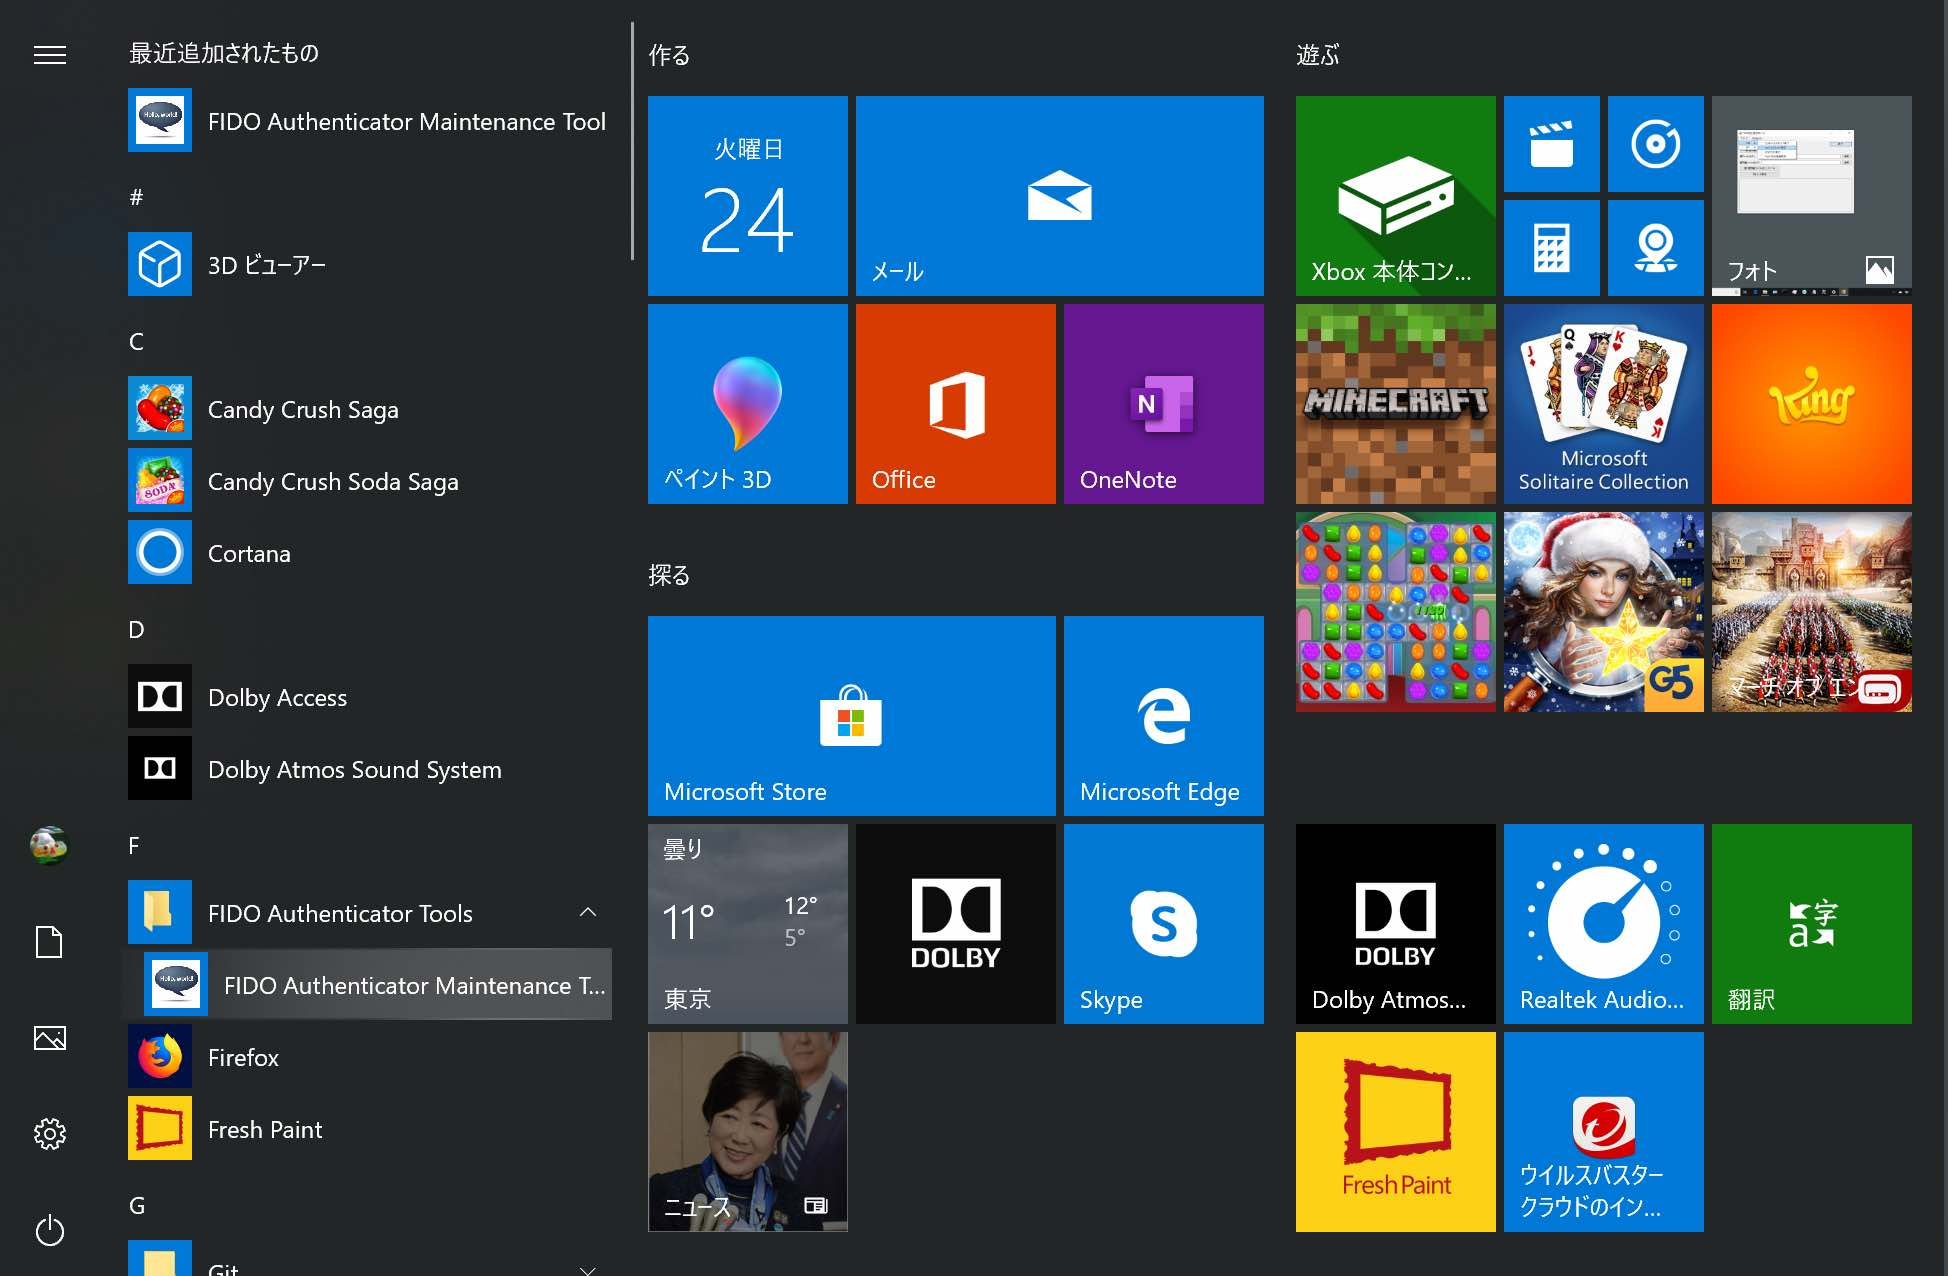
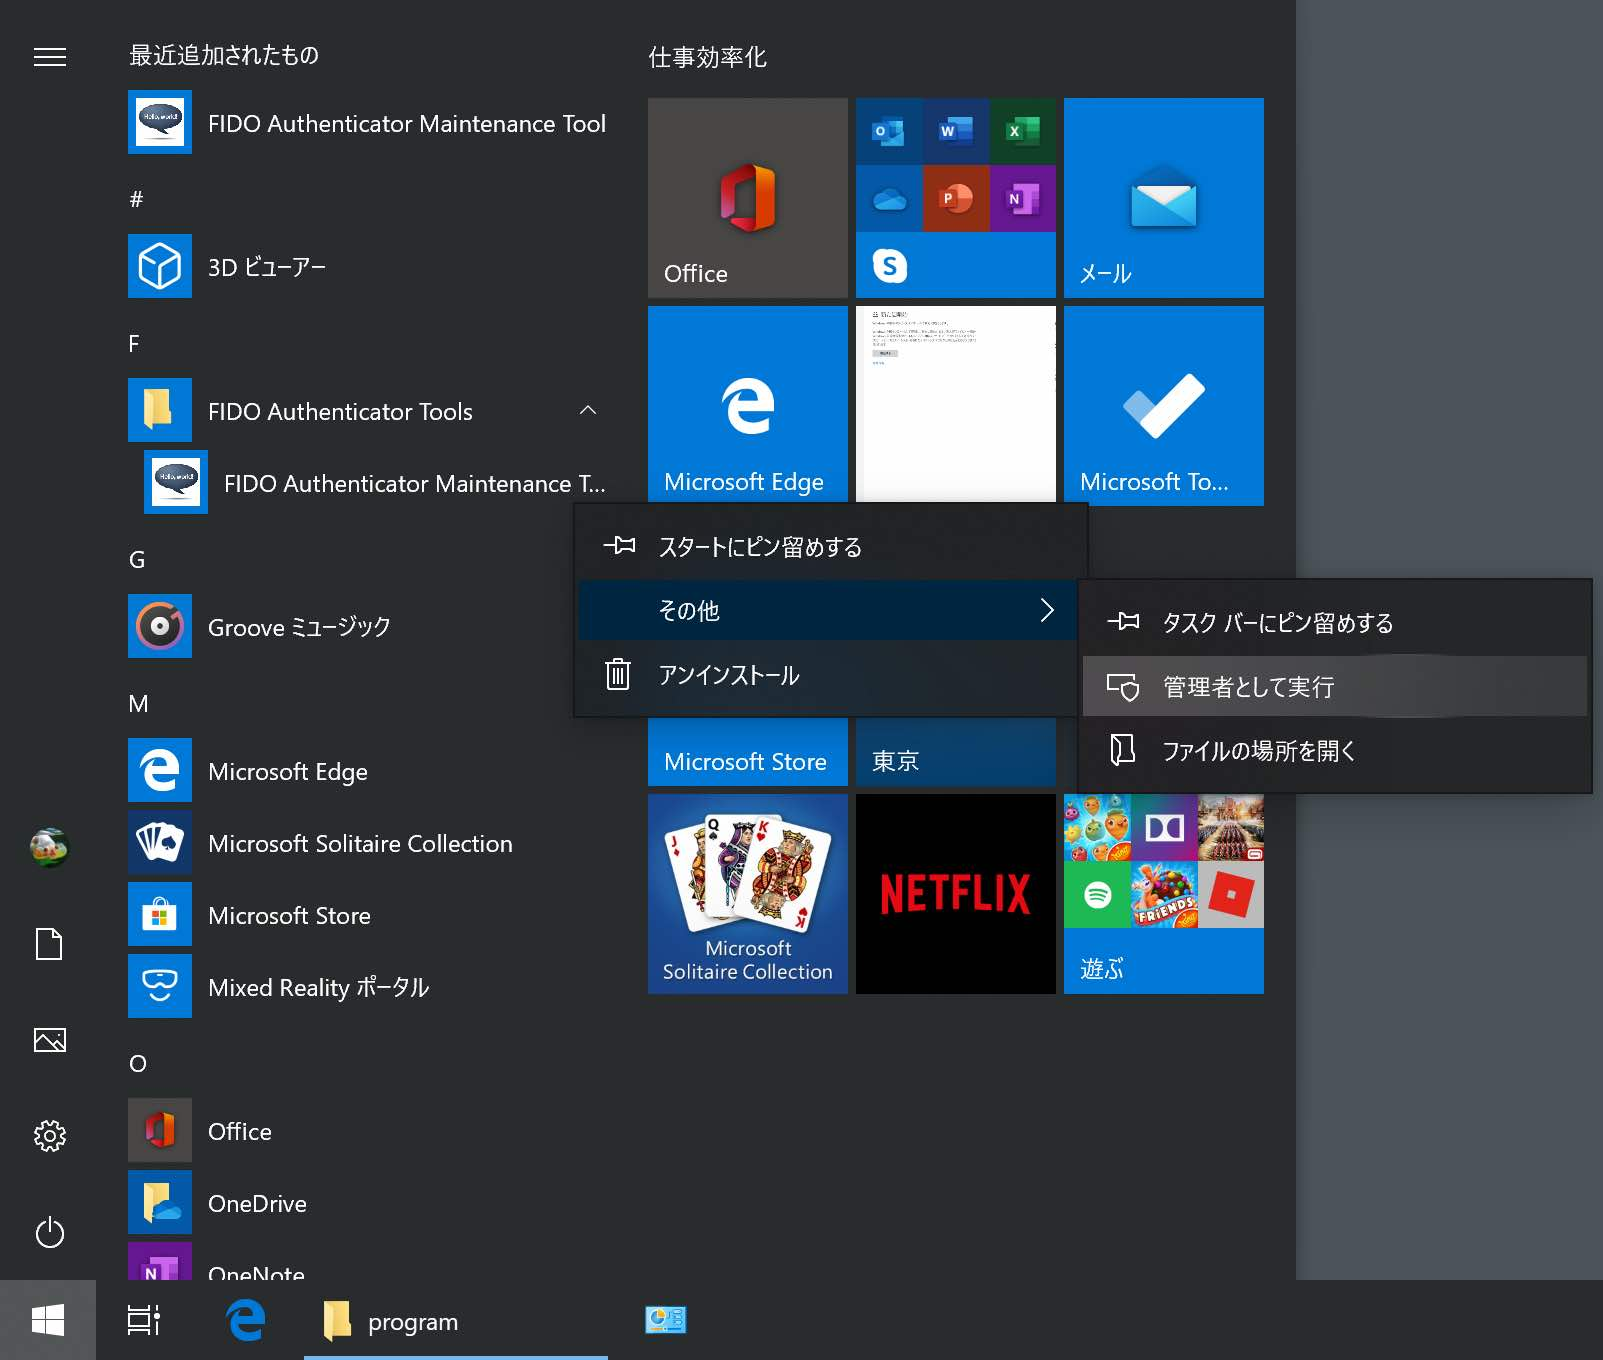
ドキュメントを更新
・管理ツール実行時は、管理者として実行する必要がある旨の注記を追加

diff --git a/MaintenanceTool/WindowsExe/INSTALLPRG.md b/MaintenanceTool/WindowsExe/INSTALLPRG.md
@@ -46,10 +46,15 @@ Windowsのエクスプローラが表示されますので、フォルダー「M
 <img src="assets04/0006.png" width="300">
 
 Windowsのスタートメニューに、フォルダー「FIDO Authenticator Tools」とアイコン「FIDO Authenticator Maintenance Tool」が作成されていることを確認します。<br>
-アイコンをクリックし、インストールされたFIDO認証器管理ツールを実行します。
+アイコンを右クリックし、インストールされたFIDO認証器管理ツールを「管理者として実行」します。[注1]
 
 <img src="assets04/0007.jpg" width="600">
 
 FIDO認証器管理ツールの画面が起動すれば、インストールは完了です。
 
 <img src="assets04/0004.png" width="400">
+
+[注1] 最新バージョンのWindows 10では、管理者として実行されていないプログラムでは、FIDOデバイスとの直接的なUSB通信ができない仕様になっているようです。Windows版管理ツールでは、鍵・証明書インストールなどの管理機能を実行時、FIDOデバイスとの直接的なUSB通信が必要なため、管理者として実行させる前提としております。<br>
+Windows版管理ツールを「管理者として実行」しない場合は、下記のようなエラーメッセージがポップアップ表示されます。
+
+<img src="assets04/0008.jpg" width="400">

diff --git a/MaintenanceTool/WindowsExe/README.md b/MaintenanceTool/WindowsExe/README.md
@@ -22,6 +22,19 @@ PC環境から、[FIDO認証器](../../nRF5_SDK_v15.3.0)の動作に必要な鍵
 ### 動作環境
 Windows 10（64bit）
 
+### 実行にあたってのご注意
+
+最新バージョンのWindows 10では、管理者として実行されていないプログラムでは、FIDOデバイスとの直接的なUSB通信ができない仕様になっているようです。<br>
+このため、Windows版管理ツールでは、管理者として実行させる前提としております。
+
+FIDO認証器管理ツールを「管理者として実行」するためには、プログラム「FIDO Authenticator Maintenance Tool」のアイコンを右クリックし、メニューから「管理者として実行」を選択します。
+
+<img src="assets04/0007.jpg" width="600">
+
+Windows版管理ツールを「管理者として実行」しなかった場合、下記のようなエラーメッセージがポップアップ表示されます。
+
+<img src="assets04/0008.jpg" width="400">
+
 ## 手順書
 
 - <b>[インストール手順](INSTALLPRG.md)</b><br>
